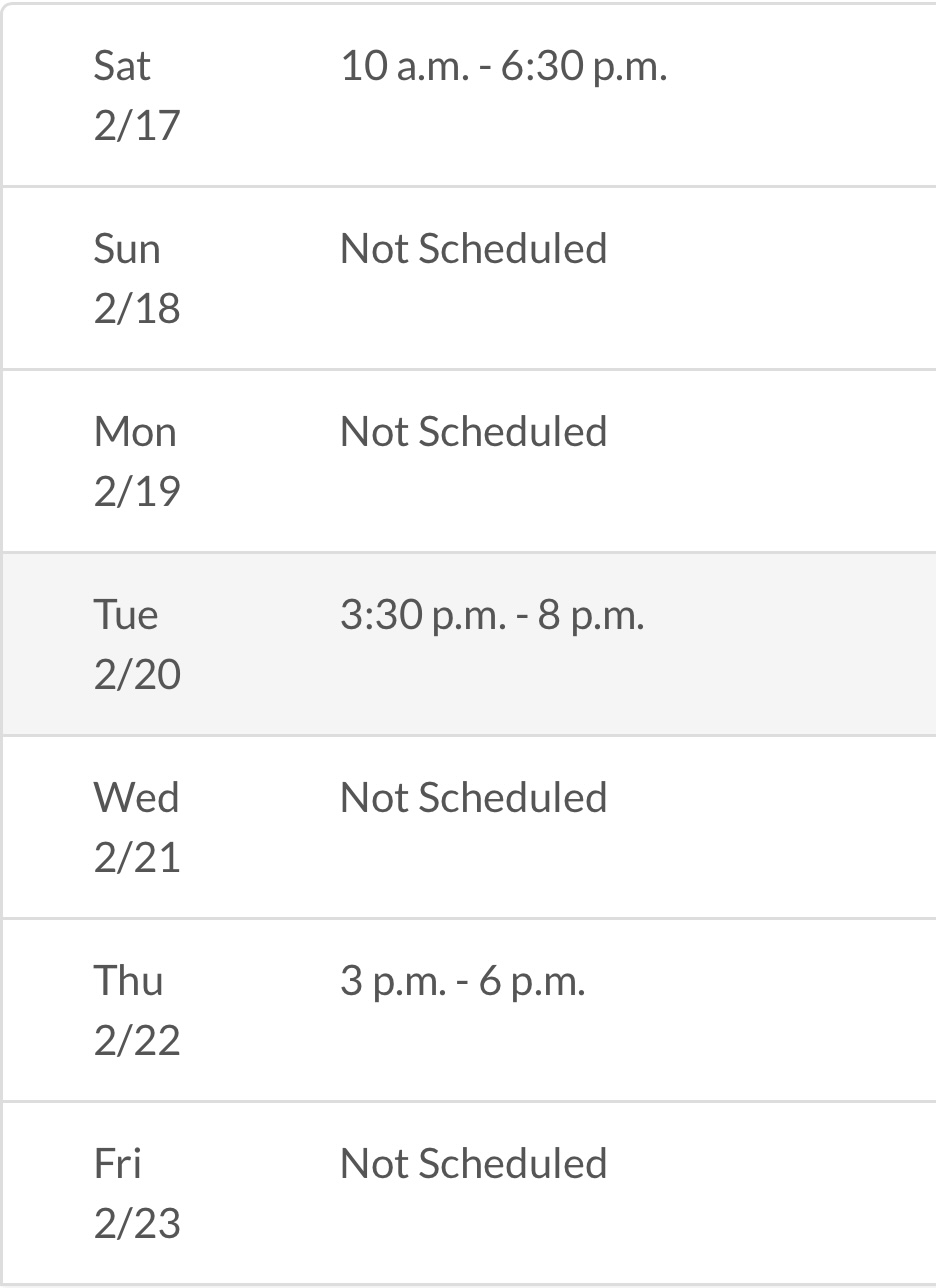
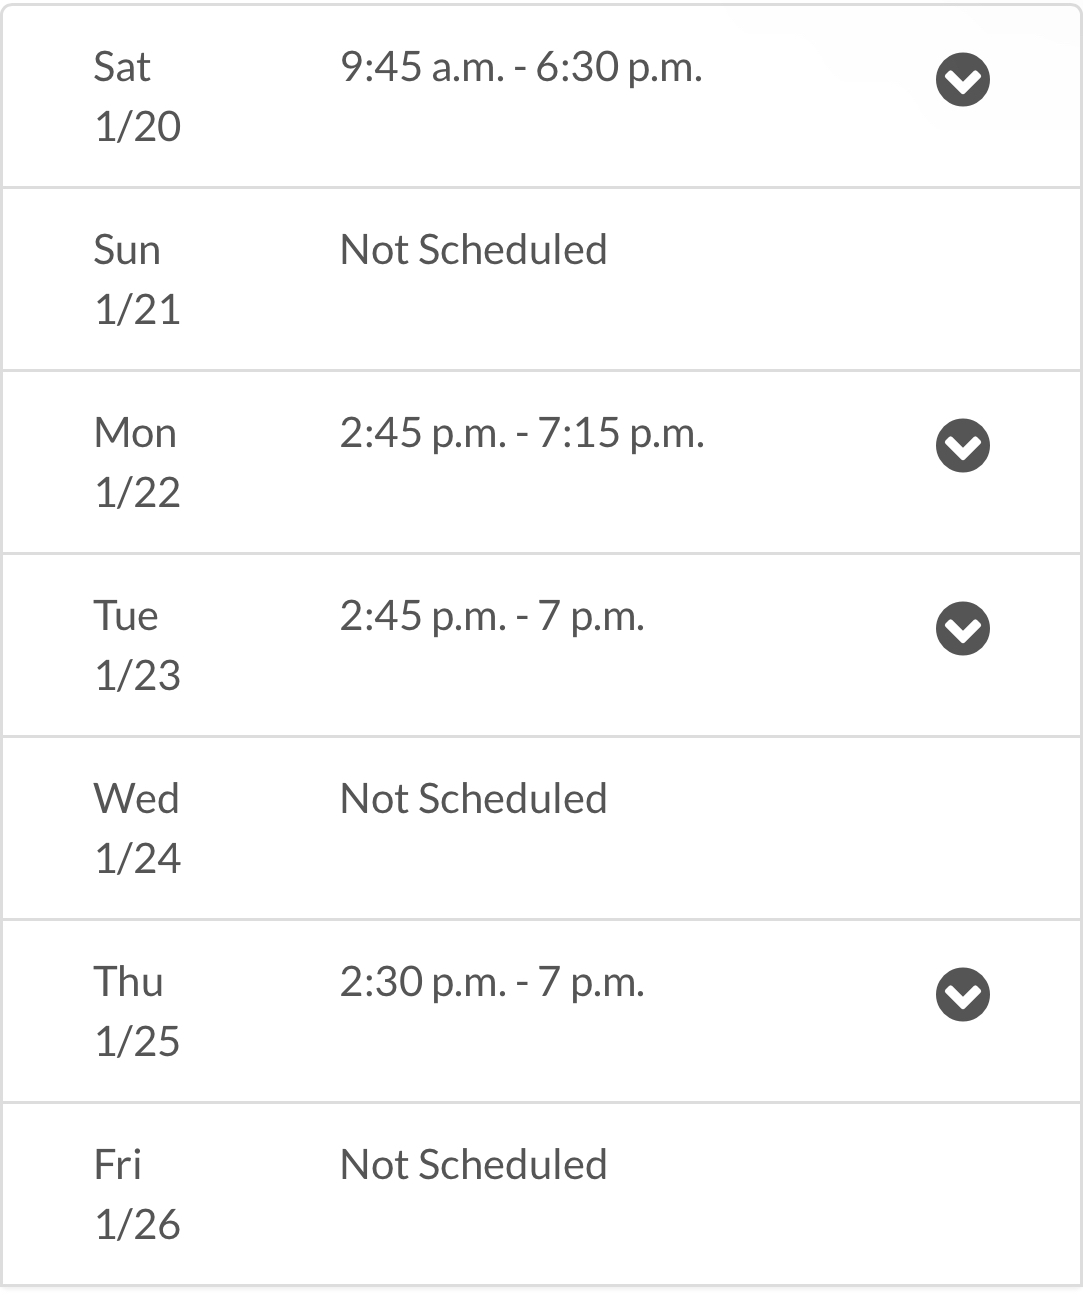
Changed timezone, added .gitignore file

diff --git a/main.py b/main.py
@@ -13,7 +13,7 @@ from googleapiclient.errors import HttpError
 
 
 #Image input
-image_path = 'data/workschedule.jpg'
+image_path = 'data/workschedule6.jpg'
 img = cv2.imread(image_path)
 
 #Dictionary to store all 
@@ -95,11 +95,11 @@ def main():
                     'description': 'Break: ',
                     'start': {
                         'dateTime' : f'{date}T{time[0]}:00',
-                        'timeZone' : 'GMT-5:00'
+                        'timeZone' : 'GMT-4:00'
                     },
                     'end': {
                         'dateTime' : f'{date}T{time[1]}:00',
-                        'timeZone' : 'GMT-5:00'
+                        'timeZone' : 'GMT-4:00'
                     }
                 }
                 event = service.events().insert(calendarId='85r1j11m1vc3983imhkpi44j1c@group.calendar.google.com', body=event).execute()
